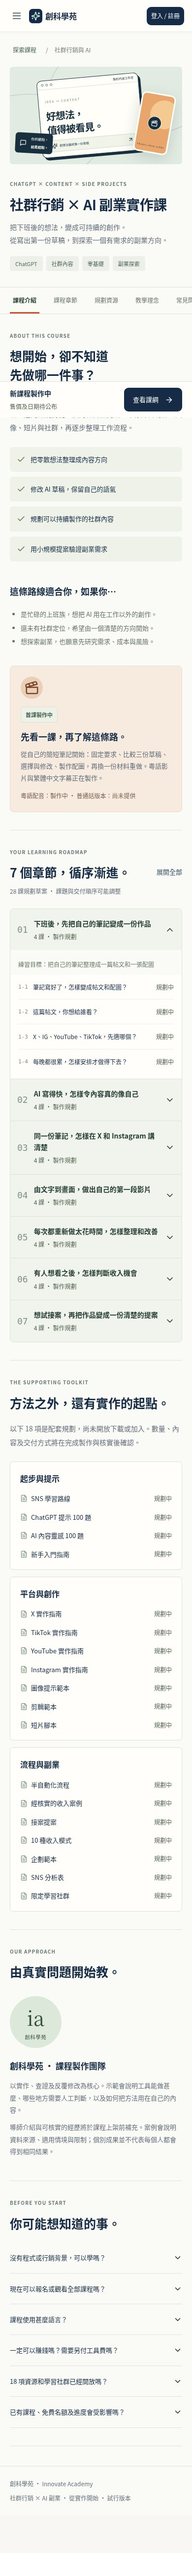
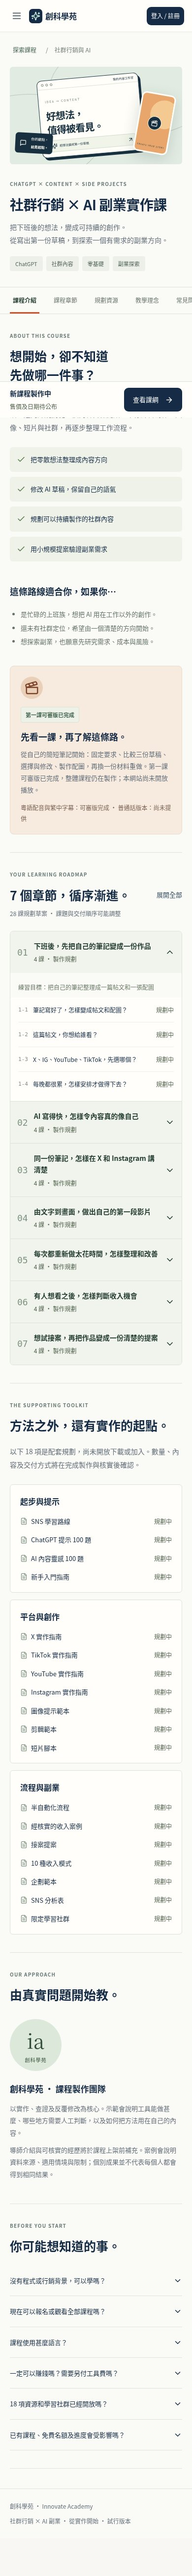
Record completed lesson review cut and keep playback unavailable pending verified intake

diff --git a/apps/web/src/SocialAcademy.tsx b/apps/web/src/SocialAcademy.tsx
@@ -345,12 +345,12 @@ export function SocialCoursePage({ onCatalog }: { onCatalog: () => void }) {
                 <Clapperboard size={30} />
               </span>
               <div>
-                <span className="planning-badge">首課製作中</span>
+                <span className="planning-badge">第一課可審版已完成</span>
                 <h3>先看一課，再了解這條路。</h3>
                 <p>
-                  從自己的簡短筆記開始：固定要求、比較三份草稿、選擇與修改、製作配圖，再換一份材料重做。粵語影片與繁體中文字幕正在製作。
+                  從自己的簡短筆記開始：固定要求、比較三份草稿、選擇與修改、製作配圖，再換一份材料重做。第一課可審版已完成，整體課程仍在製作；本網站尚未開放播放。
                 </p>
-                <span className="preview-language">粵語配音：製作中 · 普通話版本：尚未提供</span>
+                <span className="preview-language">粵語配音與繁中字幕：可審版完成 · 普通話版本：尚未提供</span>
               </div>
             </div>
           </section>

diff --git a/apps/web/src/socialCourse.ts b/apps/web/src/socialCourse.ts
@@ -102,7 +102,7 @@ export const courseFaqs = [
   ],
   [
     '課程使用甚麼語言？',
-    '介面與教材以繁體中文為主，首課規劃粵語配音及繁體中文字幕。普通話版本尚未提供；不會將未製作的語言列為可播放選項。',
+    '介面與教材以繁體中文為主，第一課可審版已完成粵語配音及繁體中文字幕，尚未在本網站開放播放。普通話版本尚未提供；不會將未製作的語言列為可播放選項。',
   ],
   [
     '一定可以賺錢嗎？需要另付工具費嗎？',

diff --git a/docs/media/social-lesson-intake.md b/docs/media/social-lesson-intake.md
@@ -1,0 +1,36 @@
+# 新社群 AI 首課：私有導入紀錄
+
+2026-10-03 父端確認可審版已完成內容、畫面與技術 QA，尚未真人逐字聽審；不等於使用者批准課程內容。本網站尚無已驗證可讀媒體，不顯示播放入口，不修改報名／免費選課／付款規則。
+
+## 交付參照
+
+| 素材                                 | Library ID                                 | 版本 | 位元組   |
+| ------------------------------------ | ------------------------------------------ | ---- | -------- |
+| 社群行銷AI副業_第一課_貼文與配圖.mp4 | `libfile_ab72e1eb01e881919c773ca865688136` | 1    | 15991255 |
+| 第一課_網站簡潔封面.png              | `libfile_29c205e1fec481919f889a51f6d71998` | 0    | 215357   |
+| 第一課_完整教學素材包.zip            | `libfile_a4cec2a79bcc8191bd4ab2ced65ef96f` | 0    | 20835625 |
+
+官方準備結果確認以上版本與大小；這是 metadata 核對，不是位元組完整性驗證。
+
+父端提供 MP4 時長 390.333 秒，預期 SHA-256：
+
[1 lines of base64/hex data omitted]
+
+此 SHA 尚未在消費端驗證。新素材不是舊 Juno／桌椅／陶藝影片，也不能替代成舊固定檔名或舊 hash。
+
+## 本輪傳輸結果
+
+以當前 Library 技能及原樣官方 helper，指定消費端私有目錄 `/workspace/pt-course-dev/social-lesson-intake`。三個新檔案各正式嘗試一次，全部回報：
+
+`library file transfer failed: download failed`
+
+沒有成功落地的影片、封面或 ZIP，沒有做 SHA、解壓、封面像素、聲畫或字幕時序驗收。本輪停止；未猜測 URL、繞過權限、挪用其他環境，亦未重試舊失敗媒體鏈。私有接收目錄不在 Git 或網站 public 中。
+
+## 取得可讀檔案後的導入要求
+
+1. 先比對 MP4 版本 1、大小與 SHA-256，並以媒體探測核對時長；封面及 ZIP 同樣保留 Library 版本身份。任何不符停止導入。
+2. ZIP 先列目錄並拒絕絕對路徑、`..`、symlink 等不安全項目；只解出需要的繁中 WebVTT／SRT及封面至私有目錄。不能把整個教材包放入 public。
+3. 驗證 VTT 語法、cue 時序、片長及真實語言；分開正常書面字幕與 TTS 專用稿，不把配音用字當成書面字幕。
+4. 有確實可讀檔案後向父端回報，再決定安全 private preview 測試。不要自行啟用預览或發布付費教材。
+5. 如其後獲授權導入，沿用既有管理員 MFA／私有資產／版本化字幕流程，使用新的課程草稿或隔離驗收版本，不覆寫既有 enrollment.version_id，不改商業權限。
+6. 完成私有播放、授權、字幕切換、聲畫及時序驗收後再標記網站媒體就緒。普通話版本仍未提供；不虛構可播放語言。

diff --git a/docs/social-academy-redesign.md b/docs/social-academy-redesign.md
@@ -55,7 +55,7 @@
 
 ## 尚待交付／未執行
 
-1. 新首課影片、粵語配音、繁中 VTT、封面與正式教材由父端同步製作，尚未收到。因此正式媒體播放、配音聽檢及字幕時序驗收尚未完成；通過的影片測試只使用明示為 QA 的合成媒體。
+1. 父端已完成並交付新首課可審版參照；網站端正式 Library 下載失敗，尚未取得可讀素材。因此正式媒體播放、配音聽檢及字幕時序驗收尚未完成；通過的影片測試只使用明示為 QA 的合成媒體。
 2. 新首課內容是自己的筆記 → 固定設定 → AI 三個草稿 → 人工選改 → 配圖 → 換材料重跑；不接入舊 Juno／桌椅／陶藝影片。
 3. 新媒體應依原有 LMS 私有資產／版本化字幕流程接入新課程草稿或隔離驗收版本，不能覆寫既有報讀版本；舊固定檔名的私人首課 preview route 保持未啟用。
 4. 普通話僅規劃，沒有假可播放語言。Gemini 如加入，只作有真實示範的對照，不提供繞區教學。
@@ -69,3 +69,7 @@
 - 首頁改為「用 AI 做好內容，開始你的社群副業」，課程列表改為「從內容創作，開始學社群行銷」。320／390px 標題沒有單字孤行。移除封面「課程主視覺・非影片預覽」角標。
 - 章節副標、規劃中及價格日期狀態至少 12px、文字色 #53634f；320／390／768px 以 computed style 驗證對比至少 4.5:1。這是 Chromium 自動化與像素複核，不代表已驗證所有真機／螢幕閱讀器。
 - 四項新增 E2E 加上原有 17 項，共 21 項。原有 19 張截圖與 manifest 已重新拍攝，另加 `featured-card-768.jpg`，完整顯示平板卡片及 CTA。
+
+## 新首課可審版交付
+
+2026-10-03 父端確認新影片與字幕可審版完成；網站僅更新此製作狀態，未啟用播放或發布教材。版本、大小及失敗紀錄見 [私有導入紀錄](media/social-lesson-intake.md)。

diff --git a/README.md b/README.md
@@ -7,7 +7,7 @@
 - 首頁、課程探索、橫向導覽及手機導航全面重設；原創 CSS 內容工作室插畫，不使用參考網站素材。
 - 新課程規劃：`/?page=social-course`。雙欄課程簡介、黏頂章節導覽、桌面資訊卡、手機固定 CTA、可展開的 7 章 28 課、18 項規劃資源及真實 FAQ。
 - **新課程尚未開放報名、定價或交付教材**。章節及資源明確標示規劃；沒有假播放器、評價、學員數或收入數字。HKD 為定價幣別提示，不改寫資料庫價格。
-- 首課主題是自己的筆記 → 固定設定 → 三個 AI 草稿 → 人工選改 → 配圖 → 換材料重做。**新影片、粵語配音與繁中字幕仍待父端交付驗收**；普通話版本僅為未來規劃。舊影片未接入。
+- 首課主題是自己的筆記 → 固定設定 → 三個 AI 草稿 → 人工選改 → 配圖 → 換材料重做。**新影片、粵語配音與繁中字幕的可審版已由父端完成，但網站端尚未取得可讀素材，未開放播放**；普通話版本僅為未來規劃。舊影片未接入。
 - 原分享卡仍可從探索課程底部進入 `/?page=first-lesson`，是獨立公開練習，不是新課程已交付的首課；保留三色 1080 PNG、五步教材及自我檢查。
 - 既有 LMS、MFA、點數、每帳戶每級一次整門課免費名額、不可變課程版本、私有字幕授權、測驗及證書保留。未改後端、收費規則或權限。
 - 本輪驗收與媒體待辦見 [社群 AI 改版紀錄](docs/social-academy-redesign.md)。沒有部署、合併或啟用正式付款。
